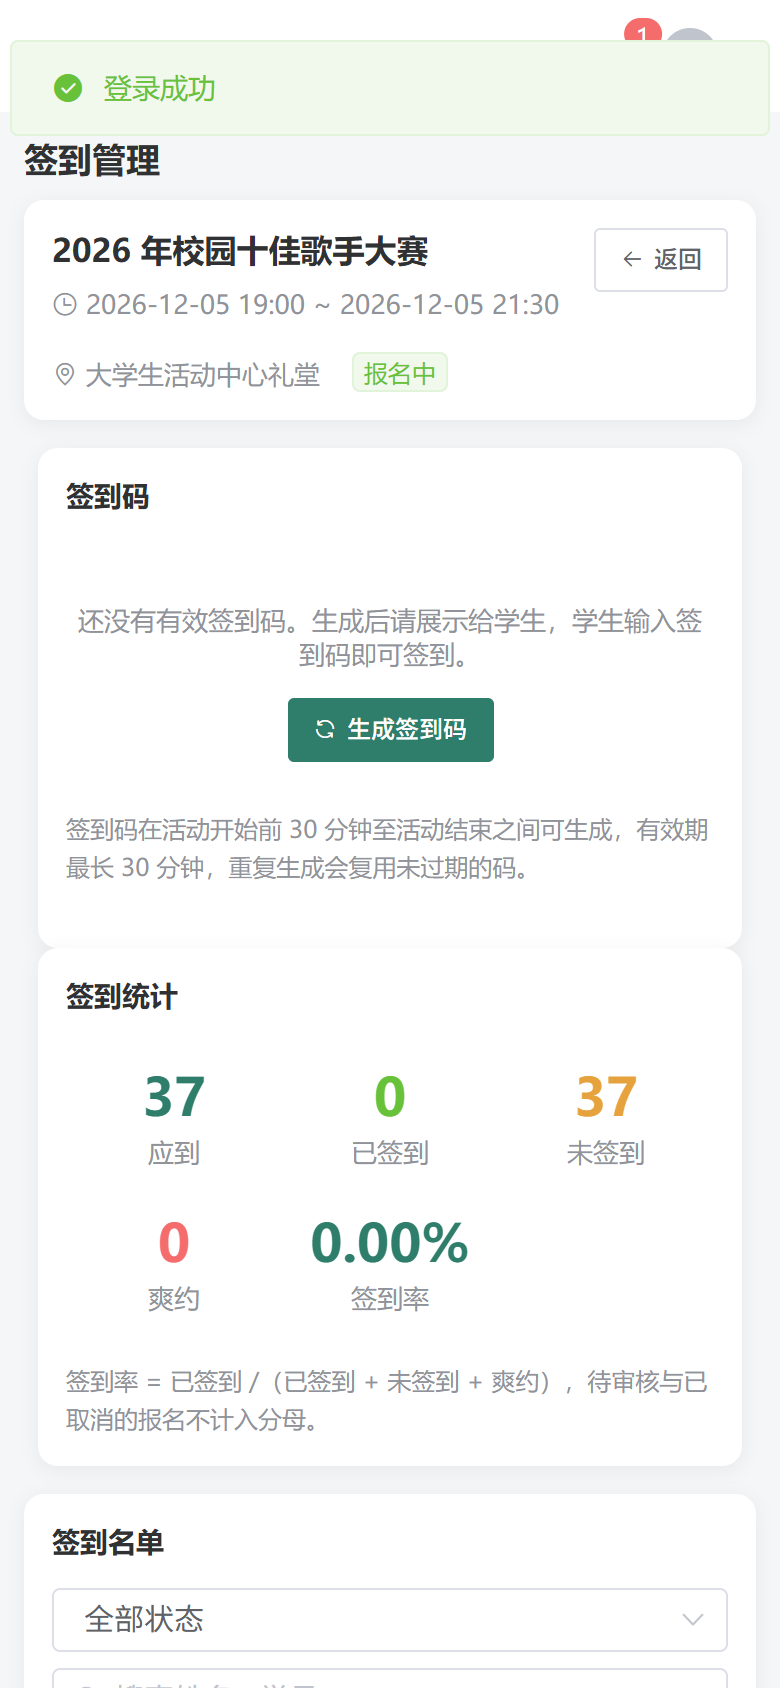
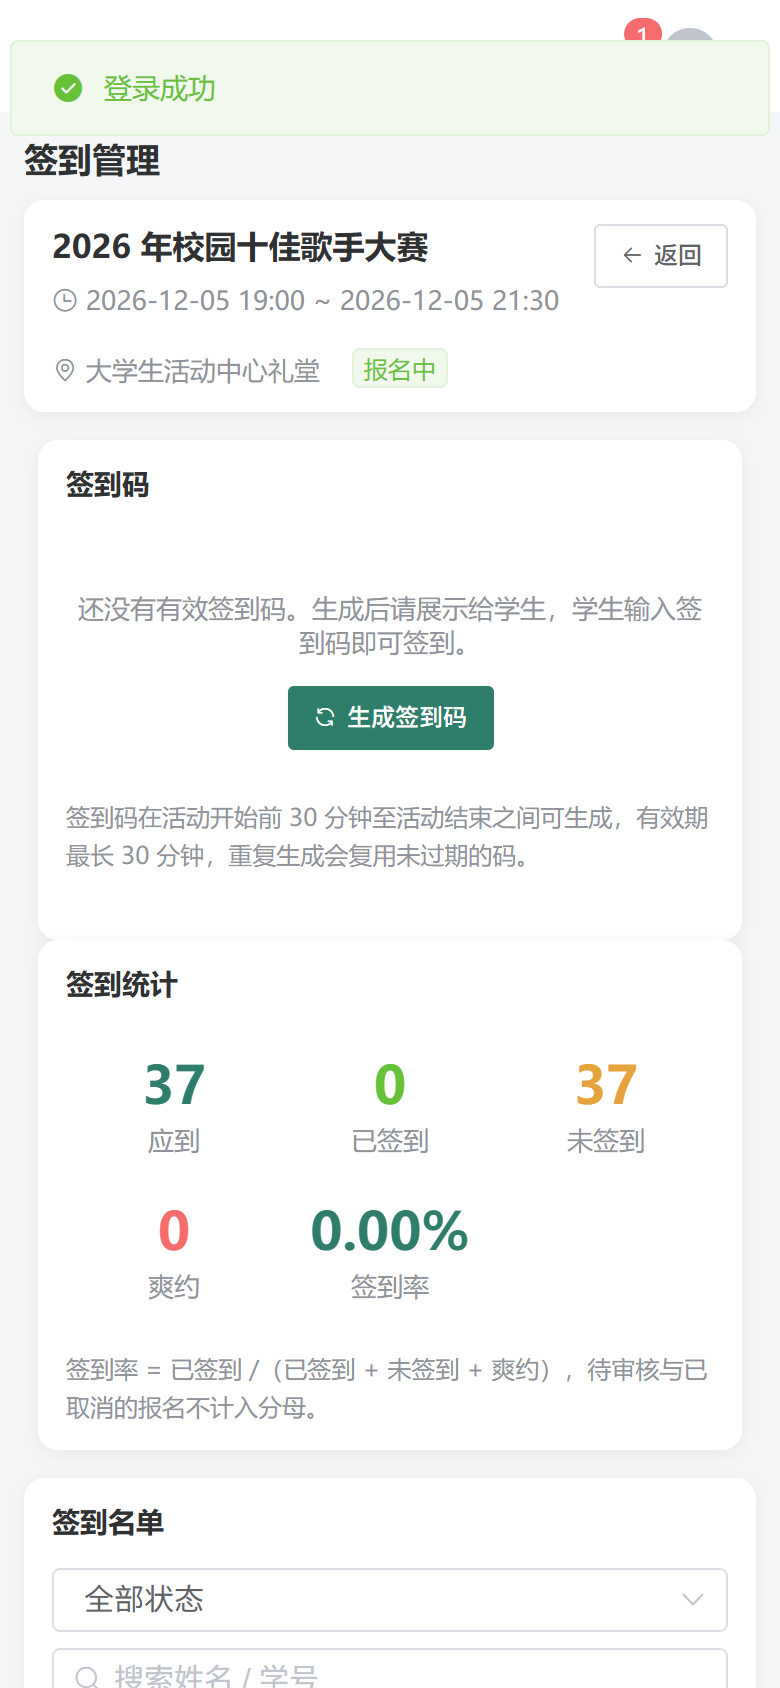
移动端补完：签到名单改卡片、管理员与组织者 768 回归、截图与清单计数

diff --git a/web/src/views/organizer/CheckinManage.vue b/web/src/views/organizer/CheckinManage.vue
@@ -121,7 +121,7 @@
         <el-button size="small" icon="el-icon-refresh" @click="refreshAll">刷新</el-button>
       </div>
 
-      <el-table v-loading="loading" :data="list" size="small" stripe empty-text="暂无签到记录">
+      <el-table v-loading="loading" :data="list" size="small" stripe class="only-desktop" empty-text="暂无签到记录">
         <el-table-column label="姓名" width="110">
           <template slot-scope="{ row }">{{ row.realName || '-' }}</template>
         </el-table-column>
@@ -151,6 +151,22 @@
           </template>
         </el-table-column>
       </el-table>
+
+      <div class="only-mobile m-list" v-loading="loading">
+        <div class="m-card" v-for="row in list" :key="row.id">
+          <div class="m-card-head">
+            <span class="m-card-title">{{ row.realName || '-' }}</span>
+            <status-tag :status="row.status" kind="registration" />
+          </div>
+          <div class="m-card-meta">学号 {{ row.studentNo || '-' }}</div>
+          <div class="m-card-meta">签到时间 {{ fmtDateTime(row.checkinTime) }}</div>
+          <div class="m-card-meta">签到方式 {{ checkinTypeText(row.checkinType) }}</div>
+          <div class="m-card-actions">
+            <el-button v-if="row.status === 1" size="mini" @click="handleManualCheckin(row)">补签</el-button>
+          </div>
+        </div>
+        <div class="empty-box" v-if="!list.length">暂无签到记录</div>
+      </div>
 
       <div class="pager">
         <el-pagination

diff --git a/doc/00-项目总体规划.md b/doc/00-项目总体规划.md
@@ -842,5 +842,5 @@ Open objectives: 学校模板格式对齐（等用户提供模板）、查重/AI
 - 共享层：`web/src/utils/device.js`（`matchMedia` 断点）、`web/src/styles/mobile.css`（表单/弹窗/表格/卡片/安全区）、`MainLayout.vue`（抽屉 + 学生底部 4 tab）。
 - 页面：登录、注册、首页、活动中心、详情、我的报名（卡片）、我的评价（卡片）、消息、个人中心；组织者我的活动、报名名单、签到、发布、数据；管理员审核、用户、分类、公告、统计、参数。
 - 关键坑：① `el-row` 的 `::before/::after` 清浮动伪元素在 grid 容器里成为两个 grid item，导致统计卡错位，需 `display:none`；② 通用 `[class*="el-col-"]{width:100%}` 会压坏使用 `xs/sm/md` 的统计页，必须排除响应式断点类；③ 详情页操作卡用 `position:sticky` 会盖住"质量分"，改回正常流；④ PDF 被 WPS 打开时 `ExportAsFixedFormat` 报 `HRESULT E_FAIL`，先关进程或用临时文件再覆盖。
-- 验证：`tools/pptr/mobile-shots.js` 在 390×844 逐页截图（`doc/mobile/`，20 张，`overflowX` 全部为 0）；`WIDTH=768` 输出 `doc/mobile768/`（6 张）；`desktop-shots.js` 输出 `doc/desktop/`（1440×900，3 张），桌面布局未降级。
+- 验证：`tools/pptr/mobile-shots.js` 在 390×844 逐页截图（`doc/mobile/`，20 张（签到名单、分类、公告、参数与 404 页另行逐页核对卡片数与溢出），`overflowX` 全部为 0）；`WIDTH=768` 输出 `doc/mobile768/`（13 张，含组织者与管理员的 768 回归）；`desktop-shots.js` 输出 `doc/desktop/`（1440×900，3 张），桌面布局未降级。
 - 产物：单 jar 重打（48.2MB，含移动端样式）；论文 61 页 / 2.60 万字（新增 5.3.1 移动端适配，3.3 与 7.2 同步改写）；PPT 第 10 页改为"桌面 + 手机"双图并附四条要点；讲稿第 10 页补一句移动端；README 增"移动端"一节；`doc/09` 更新页数与字数。

diff --git a/README.md b/README.md
@@ -26,7 +26,7 @@
 表格类列表改为卡片，弹窗与表单整宽，按钮高度不小于 36 像素并适配底部安全区。
 
 - 响应式层：`web/src/utils/device.js`（断点探测）、`web/src/styles/mobile.css`（统一规则与卡片样式）
-- 手机截图：`doc/mobile/`（390×844，15 个页面），平板回归：`doc/mobile768/`（768×1024）
+- 手机截图：`doc/mobile/`（390×844，20 张），平板回归：`doc/mobile768/`（768×1024，13 张）
 - 桌面回归：`doc/desktop/`（1440×900），布局未降级
 
 ## 技术栈

diff --git a/doc/09-交付清单.md b/doc/09-交付清单.md
@@ -73,3 +73,5 @@
 3. 个人信息：姓名、学号、学院、专业、班级、指导教师，用于统一填写封面与签署栏。
 
 > 自定义域名（2026-11-21）：前端 `https://campus.taikong.de`，后端 `https://campus-api.taikong.de`；截图 `31-domain-login.png`、`32-domain-home.png`、`33-domain-activities.png`。
+
+- 移动端截图：`doc/mobile/` 20 张（390×844）、`doc/mobile768/` 13 张（768×1024）、`doc/desktop/` 3 张（1440×900），横向溢出均为 0。
